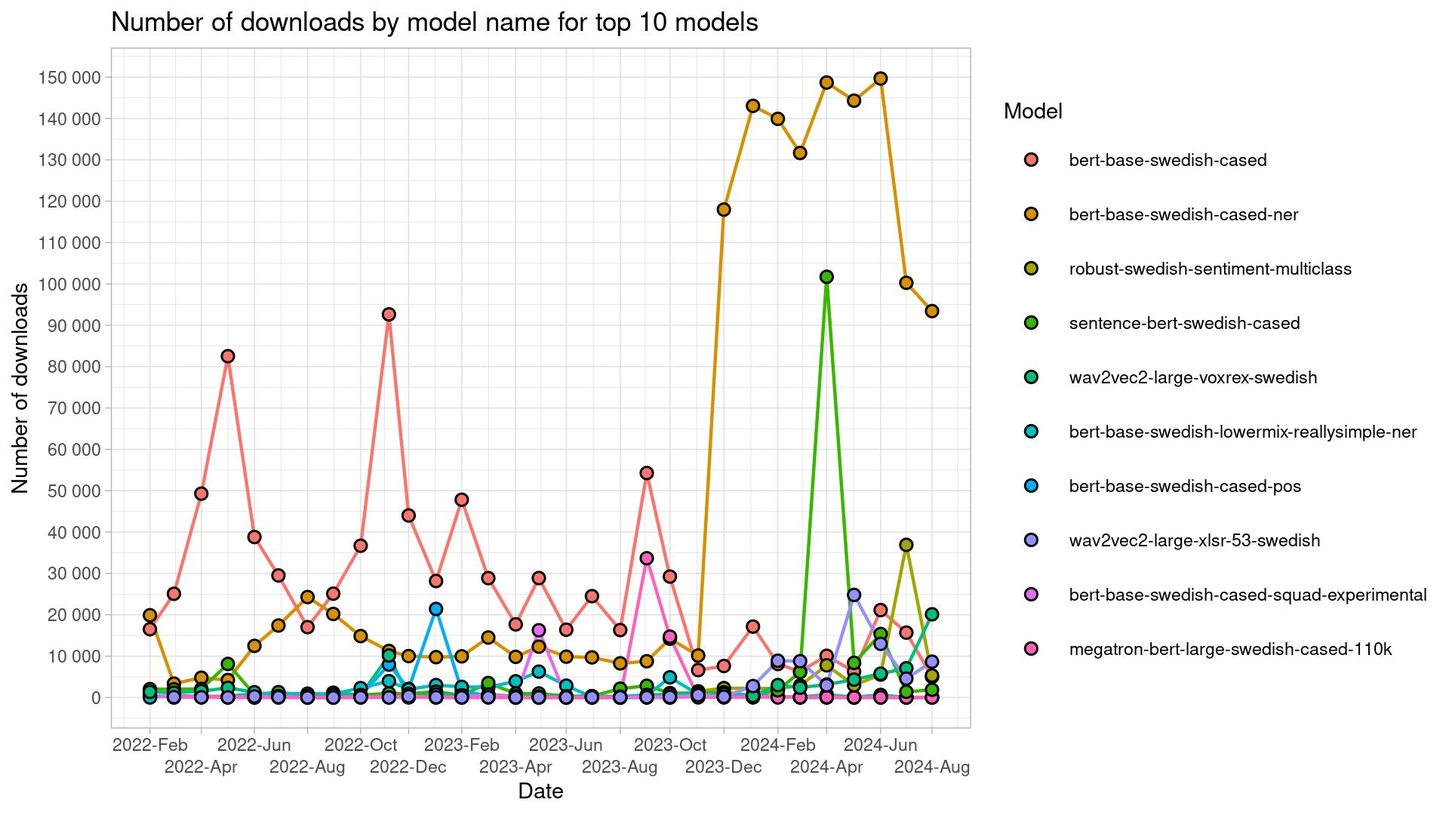
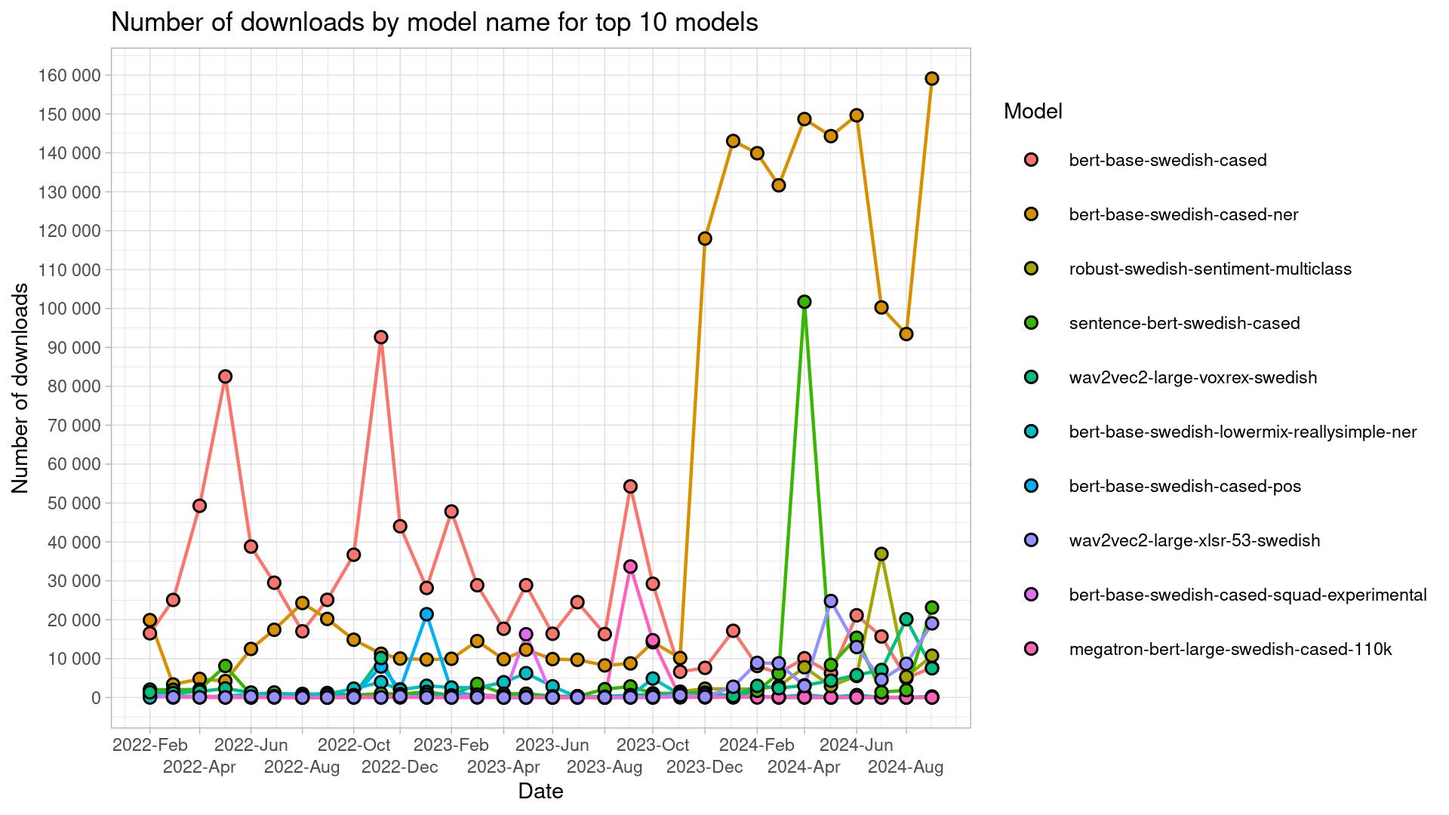
September 2024 update

diff --git a/README.md b/README.md
@@ -12,61 +12,61 @@ Script is run monthly, and a monthly `csv`-file outputted to `/data` folder.
 
 ## Table of downloads
 
-|model_name                                           | 2022-02| 2022-03| 2022-04| 2022-05| 2022-06| 2022-07| 2022-08| 2022-09| 2022-10| 2022-11| 2022-12| 2023-01| 2023-02| 2023-03| 2023-04| 2023-05| 2023-06| 2023-07| 2023-08| 2023-09| 2023-10| 2023-11| 2023-12| 2024-01| 2024-02| 2024-03| 2024-04| 2024-05| 2024-06| 2024-07| 2024-08|
-|:----------------------------------------------------|-------:|-------:|-------:|-------:|-------:|-------:|-------:|-------:|-------:|-------:|-------:|-------:|-------:|-------:|-------:|-------:|-------:|-------:|-------:|-------:|-------:|-------:|-------:|-------:|-------:|-------:|-------:|-------:|-------:|-------:|-------:|
-|albert-base-swedish-cased-alpha                      |     126|     252|      61|      52|      52|      28|      31|      17|      30|      64|     229|      37|      32|      75|      13|      17|      24|      39|      14|      18|       4|      71|      75|      74|      20|      27|     100|     220|      31|      19|      19|
-|asr-voxrex-bart-base                                 |      11|      10|      19|       5|       2|       1|       1|       3|       2|       3|       2|       4|       9|      15|       7|       2|       4|       7|       4|       3|       8|       2|       5|       1|       6|       8|       5|       8|       8|      50|       6|
-|bart-base-swedish-cased                              |      74|      12|     116|     126|      32|      18|      41|      56|      81|       6|       9|      18|      41|      70|     110|      60|      50|      40|      23|       9|      63|      44|      42|      11|     129|      14|     119|      14|      56|      32|     288|
-|bert-base-swedish-cased                              |   16509|   25080|   49286|   82528|   38802|   29511|   17012|   25106|   36702|   92636|   44016|   28164|   47819|   28864|   17684|   28878|   16390|   24502|   16303|   54271|   29238|    6625|    7620|   17149|    8106|    6290|   10094|    6253|   21139|   15689|    4996|
-|bert-base-swedish-cased-alpha                        |      22|      24|    1362|      34|       8|      73|       7|      14|      14|      14|      10|     160|     151|       6|       9|       5|       6|       9|       2|      12|       3|       4|       5|       3|       5|      11|      15|       2|       9|       8|       7|
-|bert-base-swedish-cased-ner                          |   19891|    3353|    4783|    4221|   12487|   17406|   24290|   20200|   14852|   11251|   10014|    9759|    9957|   14508|    9834|   12293|    9868|    9701|    8258|    8767|   14214|   10149|  117977|  143050|  139912|  131659|  148695|  144309|  149658|  100264|   93427|
-|bert-base-swedish-cased-neriob                       |       8|      87|      34|      25|       4|      44|       2|       1|      62|      10|       5|      31|       5|       8|       6|       6|       9|      18|       2|       1|       0|      19|       8|       5|       5|      11|      15|       3|      22|       7|      10|
-|bert-base-swedish-cased-new                          |      NA|       0|     377|    1069|     786|      10|     238|      69|     225|     168|     163|      46|      44|     352|     303|      33|      52|      69|      73|     211|      96|      84|      30|      34|       5|      53|      59|     279|      76|      27|       8|
-|bert-base-swedish-cased-pos                          |     428|     179|     107|     104|     168|     310|       2|       2|     467|    7959|    2083|   21410|    1713|     300|      15|      28|      58|      64|       9|      75|      28|     312|     159|     166|     239|      33|      20|      12|      80|      32|      15|
-|bert-base-swedish-cased-reallysimple-ner             |       6|      32|       9|       7|      11|      10|       3|       8|      10|      17|       4|      16|     159|     401|     211|     334|     327|     326|      74|     152|     341|     304|     274|       3|       7|      14|      14|       4|      12|       6|      11|
-|bert-base-swedish-cased-squad-experimental           |     323|     136|      45|      23|      40|     182|      25|      27|     101|      10|      22|      62|      56|     643|     130|   16262|      29|      29|       4|      16|      10|     280|      64|      34|     275|      30|      44|       4|      13|      36|      47|
-|bert-base-swedish-lowermix-reallysimple-ner          |       6|     453|     248|     312|     901|     991|     930|     871|    2274|    3958|    1963|    3010|    2567|    2485|    3919|    6258|    2875|     121|      53|     417|    4874|     769|     327|     713|      81|     111|     696|     104|     623|      31|      33|
-|electra-base-swedish-cased-discriminator             |     317|     143|     149|    1404|       2|       3|       3|       3|       2|       5|       0|       7|       2|       0|       6|       7|       4|       8|       0|       1|       0|       4|       0|       1|       4|       5|      15|       2|       5|       4|       4|
-|electra-base-swedish-cased-generator                 |       9|      15|      26|      31|       2|      19|       1|      18|       1|       9|       4|      10|       4|      14|      88|      78|     107|      72|       3|      15|      39|      12|       7|      11|       8|      52|      53|       6|      27|       2|       5|
-|electra-small-swedish-cased-discriminator            |      12|       5|    1467|    3804|      10|       5|       2|       2|       2|      10|       8|      12|     153|       1|       9|       2|       6|       4|      18|       6|       0|       3|       0|       7|      11|      13|       9|       4|       9|       7|      14|
-|electra-small-swedish-cased-generator                |      NA|       3|     138|      14|       4|      19|       2|       3|       4|       8|       6|      11|       4|       3|       6|      14|       4|       9|       0|       1|       0|     131|       5|       3|       5|       9|      13|       2|      10|       4|       9|
-|emotional-classification                             |      NA|      NA|      NA|      NA|      NA|      NA|      NA|      NA|      NA|      NA|      NA|      NA|      NA|      NA|      NA|      NA|      NA|     155|       3|       1|       2|      27|       9|       0|       0|      13|      63|       1|       8|       2|       8|
-|megatron-bert-base-swedish-cased-125k                |      NA|       0|     353|       0|       2|       8|       1|       3|     131|      55|     158|      27|      21|      19|       7|       6|      10|      10|       4|       2|       0|       4|      29|      22|       5|       3|       4|      67|       8|       2|       6|
-|megatron-bert-base-swedish-cased-600k                |      NA|      10|     288|      87|      30|      16|      16|      17|     111|      12|      20|     194|      27|      49|      13|      15|     100|      22|       2|       2|      15|      12|      41|      21|       5|      67|       6|      71|      30|       6|      13|
-|megatron-bert-large-swedish-cased-110k               |      NA|       0|     346|      77|       4|       4|       0|       1|       1|     171|     160|      15|       8|      23|       4|       2|       4|       3|       0|   33671|   14716|      38|      63|     106|      29|      70|      79|      43|      31|      24|      23|
-|megatron-bert-large-swedish-cased-165-zero-shot      |      NA|      NA|      NA|      NA|      NA|      NA|      NA|      NA|      NA|      NA|       5|      55|      26|      63|      20|     621|      69|     135|      58|     170|      48|     243|     123|      40|     127|     147|      56|     123|     119|       7|      27|
-|megatron-bert-large-swedish-cased-165k               |      NA|      NA|       9|      13|      40|      19|      53|       2|      18|     336|     327|      21|      34|      67|      43|      56|      36|      52|      13|      86|      37|      12|     343|     153|      24|      18|      24|      15|      15|       3|       5|
-|megatron.bert-base.bpe-32k-no_pretok.25k-steps       |      NA|      NA|      NA|      NA|      NA|      NA|      NA|      NA|      NA|      NA|      NA|      NA|      NA|      NA|      NA|      NA|      NA|      NA|      NA|      NA|      NA|      NA|      NA|      NA|      NA|      NA|      NA|       3|       2|       4|       4|
-|megatron.bert-base.bpe-64k-no_pretok.25k-steps       |      NA|      NA|      NA|      NA|      NA|      NA|      NA|      NA|      NA|      NA|      NA|      NA|      NA|      NA|      NA|      NA|      NA|      NA|      NA|      NA|      NA|      NA|      NA|      NA|      NA|      NA|      NA|       3|       3|       3|       5|
-|megatron.bert-base.spe-bpe-32k-no_pretok.25k-steps   |      NA|      NA|      NA|      NA|      NA|      NA|      NA|      NA|      NA|      NA|      NA|      NA|      NA|      NA|      NA|      NA|      NA|      NA|      NA|      NA|      NA|      NA|      NA|      NA|      NA|      NA|      NA|       3|       3|       3|       4|
-|megatron.bert-base.spe-bpe-32k-pretok.25k-steps      |      NA|      NA|      NA|      NA|      NA|      NA|      NA|      NA|      NA|      NA|      NA|      NA|      NA|      NA|      NA|      NA|      NA|      NA|      NA|      NA|      NA|      NA|      NA|      NA|      NA|      NA|      NA|       3|       3|       3|       4|
-|megatron.bert-base.spe-bpe-64k-no_pretok.25k-steps   |      NA|      NA|      NA|      NA|      NA|      NA|      NA|      NA|      NA|      NA|      NA|      NA|      NA|      NA|      NA|      NA|      NA|      NA|      NA|      NA|      NA|      NA|      NA|      NA|      NA|      NA|      NA|       3|       3|       4|       4|
-|megatron.bert-base.spe-bpe-64k-pretok.25k-steps      |      NA|      NA|      NA|      NA|      NA|      NA|      NA|      NA|      NA|      NA|      NA|      NA|      NA|      NA|      NA|      NA|      NA|      NA|      NA|      NA|      NA|      NA|      NA|      NA|      NA|      NA|      NA|       3|       3|       2|       4|
-|megatron.bert-base.unigram-32k-no_pretok.25k-steps   |      NA|      NA|      NA|      NA|      NA|      NA|      NA|      NA|      NA|      NA|      NA|      NA|      NA|      NA|      NA|      NA|      NA|      NA|      NA|      NA|      NA|      NA|      NA|      NA|      NA|      NA|      NA|       3|       3|       3|       4|
-|megatron.bert-base.unigram-32k-pretok.25k-steps      |      NA|      NA|      NA|      NA|      NA|      NA|      NA|      NA|      NA|      NA|      NA|      NA|      NA|      NA|      NA|      NA|      NA|      NA|      NA|      NA|      NA|      NA|      NA|      NA|      NA|      NA|      NA|       3|       3|       3|       4|
-|megatron.bert-base.unigram-64k-no_pretok.25k-steps   |      NA|      NA|      NA|      NA|      NA|      NA|      NA|      NA|      NA|      NA|      NA|      NA|      NA|      NA|      NA|      NA|      NA|      NA|      NA|      NA|      NA|      NA|      NA|      NA|      NA|      NA|      NA|       3|       3|       3|       5|
-|megatron.bert-base.unigram-64k-pretok.25k-steps      |      NA|      NA|      NA|      NA|      NA|      NA|      NA|      NA|      NA|      NA|      NA|      NA|      NA|      NA|      NA|      NA|      NA|      NA|      NA|      NA|      NA|      NA|      NA|      NA|      NA|      NA|      NA|       3|       4|       3|       4|
-|megatron.bert-base.wordpiece-32k-no_pretok.25k-steps |      NA|      NA|      NA|      NA|      NA|      NA|      NA|      NA|      NA|      NA|      NA|      NA|      NA|      NA|      NA|      NA|      NA|      NA|      NA|      NA|      NA|      NA|      NA|      NA|      NA|      NA|      NA|       3|       3|       3|       4|
-|megatron.bert-base.wordpiece-32k-pretok.25k-steps    |      NA|      NA|      NA|      NA|      NA|      NA|      NA|      NA|      NA|      NA|      NA|      NA|      NA|      NA|      NA|      NA|      NA|      NA|      NA|      NA|      NA|      NA|      NA|      NA|      NA|      NA|      NA|       9|       3|       3|       5|
-|megatron.bert-base.wordpiece-64k-no_pretok.25k-steps |      NA|      NA|      NA|      NA|      NA|      NA|      NA|      NA|      NA|      NA|      NA|      NA|      NA|      NA|      NA|      NA|      NA|      NA|      NA|      NA|      NA|      NA|      NA|      NA|      NA|      NA|      NA|       3|       3|       3|       5|
-|megatron.bert-base.wordpiece-64k-pretok.25k-steps    |      NA|      NA|      NA|      NA|      NA|      NA|      NA|      NA|      NA|      NA|      NA|      NA|      NA|      NA|      NA|      NA|      NA|      NA|      NA|      NA|      NA|      NA|      NA|      NA|      NA|      NA|      NA|       3|       3|       2|       4|
-|megatron.bert-large.bpe-64k-no_pretok.25k-steps      |      NA|      NA|      NA|      NA|      NA|      NA|      NA|      NA|      NA|      NA|      NA|      NA|      NA|      NA|      NA|      NA|      NA|      NA|      NA|      NA|      NA|      NA|      NA|      NA|      NA|      NA|      NA|       3|       3|       3|       4|
-|megatron.bert-large.spe-bpe-32k-pretok.25k-steps     |      NA|      NA|      NA|      NA|      NA|      NA|      NA|      NA|      NA|      NA|      NA|      NA|      NA|      NA|      NA|      NA|      NA|      NA|      NA|      NA|      NA|      NA|      NA|      NA|      NA|      NA|      NA|       3|       3|       3|       4|
-|megatron.bert-large.unigram-32k-pretok.25k-steps     |      NA|      NA|      NA|      NA|      NA|      NA|      NA|      NA|      NA|      NA|      NA|      NA|      NA|      NA|      NA|      NA|      NA|      NA|      NA|      NA|      NA|      NA|      NA|      NA|      NA|      NA|      NA|       3|       3|       2|       4|
-|megatron.bert-large.unigram-64k-pretok.25k-steps     |      NA|      NA|      NA|      NA|      NA|      NA|      NA|      NA|      NA|      NA|      NA|      NA|      NA|      NA|      NA|      NA|      NA|      NA|      NA|      NA|      NA|      NA|      NA|      NA|      NA|      NA|      NA|       3|       3|       3|       5|
-|megatron.bert-large.unigram-64k-pretok.500k-steps    |      NA|      NA|      NA|      NA|      NA|      NA|      NA|      NA|      NA|      NA|      NA|      NA|      NA|      NA|      NA|      NA|      NA|      NA|      NA|      NA|      NA|      NA|      NA|      NA|      NA|     310|      11|       1|       1|       2|       4|
-|megatron.bert-large.wordpiece-32k-pretok.25k-steps   |      NA|      NA|      NA|      NA|      NA|      NA|      NA|      NA|      NA|      NA|      NA|      NA|      NA|      NA|      NA|      NA|      NA|      NA|      NA|      NA|      NA|      NA|      NA|      NA|      NA|      NA|      NA|       3|       3|       3|       5|
-|megatron.bert-large.wordpiece-64k-pretok.25k-steps   |      NA|      NA|      NA|      NA|      NA|      NA|      NA|      NA|      NA|      NA|      NA|      NA|      NA|      NA|      NA|      NA|      NA|      NA|      NA|      NA|      NA|      NA|      NA|      NA|      NA|      NA|      NA|       9|       4|       3|       5|
-|piper-tts-nst-swedish                                |      NA|      NA|      NA|      NA|      NA|      NA|      NA|      NA|      NA|      NA|      NA|      NA|      NA|      NA|      NA|       1|       8|       3|       0|       0|       0|       1|       0|       0|       0|       3|       7|      11|       3|       1|       6|
-|roberta-base-swedish-cased                           |       7|       7|     471|       8|      78|       5|      67|       2|       0|       5|       5|      37|     150|       3|       6|     204|      10|       9|       1|       2|       2|       2|       3|       3|      30|      15|       9|       3|      10|       3|       8|
-|robust-swedish-sentiment-multiclass                  |      NA|      NA|      NA|      NA|      NA|      NA|      NA|      NA|      NA|      NA|      NA|      NA|      NA|      NA|      NA|      NA|      12|     296|       8|      58|     119|    1505|    2263|    2206|    2178|    2895|    7783|    2968|    5544|   36910|    5320|
-|sentence-bert-swedish-cased                          |    2033|    1988|    2079|    8110|     721|    1299|     304|    1157|     597|    1008|     887|    1441|     546|    3499|     955|     970|     327|     328|    2135|    2841|    1071|    1067|    1258|     383|    1733|    6143|  101722|    8376|   15360|    1376|    1874|
-|swedish-spacy-pipeline                               |      65|      22|       5|       2|       5|       9|       1|       2|       0|       1|       3|       4|       6|      90|       3|       1|       0|       1|       3|       9|       5|       5|       5|       3|      56|       5|       4|       2|       2|       8|       9|
-|wav2vec2-base-voxpopuli-sv-swedish                   |      NA|      21|      19|       7|       1|      NA|       1|       5|      99|       6|       2|      13|      57|      12|      56|       4|      26|       9|       0|       1|       7|       4|       2|     113|       5|       6|      12|       4|       9|       6|      14|
-|wav2vec2-large-voxpopuli-sv-swedish                  |      58|      32|      73|      57|      24|       5|       5|      11|      59|      15|       7|      23|       9|      10|      13|      10|       7|      14|       4|       1|       5|      26|       2|       3|      12|     117|      14|      13|       2|      19|      12|
-|wav2vec2-large-voxrex                                |     780|     609|     996|      57|     102|      55|      13|      34|      74|       4|       0|      56|      17|      11|       8|      17|       4|      15|       2|       1|      13|       6|       3|       1|      12|      10|      10|      20|      18|       8|      13|
-|wav2vec2-large-voxrex-swedish                        |    1356|    1151|    1534|    2331|    1277|     334|     361|     611|     531|   10157|     146|     770|     411|     732|     290|     225|      65|     330|     217|     624|     752|     769|     829|     392|    3000|    2389|    3129|    4330|    5762|    7066|   20122|
-|wav2vec2-large-xlsr-53-swedish                       |      NA|     112|      55|      32|     259|      91|      19|       9|      61|      26|     307|      71|      32|      76|      26|      31|      45|      65|      50|      77|     126|     586|     188|    2766|    8897|    8785|    2962|   24811|   12976|    4572|    8654|
-|whisper-large-rixvox                                 |      NA|      NA|      NA|      NA|      NA|      NA|      NA|      NA|      NA|      NA|      NA|      NA|      NA|     113|      56|       8|       9|      12|       9|       6|       0|      16|       0|       2|      19|      38|      18|      12|      11|      31|       8|
-|whisper-small-rixvox                                 |      NA|      NA|      NA|      NA|      NA|      NA|      NA|      NA|      NA|      NA|      NA|      NA|      NA|       3|       1|       6|       2|       7|       0|       0|       0|       1|       0|       0|       0|      13|       2|       1|       7|       1|       6|
-|whisper-tiny-rixvox                                  |      NA|      NA|      NA|      NA|      NA|      NA|      NA|      NA|      NA|      NA|      NA|      NA|      NA|       9|       1|       5|       4|       7|       3|       0|       0|       1|       0|       0|       2|      12|       6|       1|       7|       1|       5|
+|model_name                                           | 2022-02| 2022-03| 2022-04| 2022-05| 2022-06| 2022-07| 2022-08| 2022-09| 2022-10| 2022-11| 2022-12| 2023-01| 2023-02| 2023-03| 2023-04| 2023-05| 2023-06| 2023-07| 2023-08| 2023-09| 2023-10| 2023-11| 2023-12| 2024-01| 2024-02| 2024-03| 2024-04| 2024-05| 2024-06| 2024-07| 2024-08| 2024-09|
+|:----------------------------------------------------|-------:|-------:|-------:|-------:|-------:|-------:|-------:|-------:|-------:|-------:|-------:|-------:|-------:|-------:|-------:|-------:|-------:|-------:|-------:|-------:|-------:|-------:|-------:|-------:|-------:|-------:|-------:|-------:|-------:|-------:|-------:|-------:|
+|albert-base-swedish-cased-alpha                      |     126|     252|      61|      52|      52|      28|      31|      17|      30|      64|     229|      37|      32|      75|      13|      17|      24|      39|      14|      18|       4|      71|      75|      74|      20|      27|     100|     220|      31|      19|      19|     116|
+|asr-voxrex-bart-base                                 |      11|      10|      19|       5|       2|       1|       1|       3|       2|       3|       2|       4|       9|      15|       7|       2|       4|       7|       4|       3|       8|       2|       5|       1|       6|       8|       5|       8|       8|      50|       6|      20|
+|bart-base-swedish-cased                              |      74|      12|     116|     126|      32|      18|      41|      56|      81|       6|       9|      18|      41|      70|     110|      60|      50|      40|      23|       9|      63|      44|      42|      11|     129|      14|     119|      14|      56|      32|     288|      19|
+|bert-base-swedish-cased                              |   16509|   25080|   49286|   82528|   38802|   29511|   17012|   25106|   36702|   92636|   44016|   28164|   47819|   28864|   17684|   28878|   16390|   24502|   16303|   54271|   29238|    6625|    7620|   17149|    8106|    6290|   10094|    6253|   21139|   15689|    4996|    7660|
+|bert-base-swedish-cased-alpha                        |      22|      24|    1362|      34|       8|      73|       7|      14|      14|      14|      10|     160|     151|       6|       9|       5|       6|       9|       2|      12|       3|       4|       5|       3|       5|      11|      15|       2|       9|       8|       7|      14|
+|bert-base-swedish-cased-ner                          |   19891|    3353|    4783|    4221|   12487|   17406|   24290|   20200|   14852|   11251|   10014|    9759|    9957|   14508|    9834|   12293|    9868|    9701|    8258|    8767|   14214|   10149|  117977|  143050|  139912|  131659|  148695|  144309|  149658|  100264|   93427|  159109|
+|bert-base-swedish-cased-neriob                       |       8|      87|      34|      25|       4|      44|       2|       1|      62|      10|       5|      31|       5|       8|       6|       6|       9|      18|       2|       1|       0|      19|       8|       5|       5|      11|      15|       3|      22|       7|      10|      26|
+|bert-base-swedish-cased-new                          |      NA|       0|     377|    1069|     786|      10|     238|      69|     225|     168|     163|      46|      44|     352|     303|      33|      52|      69|      73|     211|      96|      84|      30|      34|       5|      53|      59|     279|      76|      27|       8|     750|
+|bert-base-swedish-cased-pos                          |     428|     179|     107|     104|     168|     310|       2|       2|     467|    7959|    2083|   21410|    1713|     300|      15|      28|      58|      64|       9|      75|      28|     312|     159|     166|     239|      33|      20|      12|      80|      32|      15|      47|
+|bert-base-swedish-cased-reallysimple-ner             |       6|      32|       9|       7|      11|      10|       3|       8|      10|      17|       4|      16|     159|     401|     211|     334|     327|     326|      74|     152|     341|     304|     274|       3|       7|      14|      14|       4|      12|       6|      11|      35|
+|bert-base-swedish-cased-squad-experimental           |     323|     136|      45|      23|      40|     182|      25|      27|     101|      10|      22|      62|      56|     643|     130|   16262|      29|      29|       4|      16|      10|     280|      64|      34|     275|      30|      44|       4|      13|      36|      47|      46|
+|bert-base-swedish-lowermix-reallysimple-ner          |       6|     453|     248|     312|     901|     991|     930|     871|    2274|    3958|    1963|    3010|    2567|    2485|    3919|    6258|    2875|     121|      53|     417|    4874|     769|     327|     713|      81|     111|     696|     104|     623|      31|      33|     261|
+|electra-base-swedish-cased-discriminator             |     317|     143|     149|    1404|       2|       3|       3|       3|       2|       5|       0|       7|       2|       0|       6|       7|       4|       8|       0|       1|       0|       4|       0|       1|       4|       5|      15|       2|       5|       4|       4|       4|
+|electra-base-swedish-cased-generator                 |       9|      15|      26|      31|       2|      19|       1|      18|       1|       9|       4|      10|       4|      14|      88|      78|     107|      72|       3|      15|      39|      12|       7|      11|       8|      52|      53|       6|      27|       2|       5|       5|
+|electra-small-swedish-cased-discriminator            |      12|       5|    1467|    3804|      10|       5|       2|       2|       2|      10|       8|      12|     153|       1|       9|       2|       6|       4|      18|       6|       0|       3|       0|       7|      11|      13|       9|       4|       9|       7|      14|       8|
+|electra-small-swedish-cased-generator                |      NA|       3|     138|      14|       4|      19|       2|       3|       4|       8|       6|      11|       4|       3|       6|      14|       4|       9|       0|       1|       0|     131|       5|       3|       5|       9|      13|       2|      10|       4|       9|       8|
+|emotional-classification                             |      NA|      NA|      NA|      NA|      NA|      NA|      NA|      NA|      NA|      NA|      NA|      NA|      NA|      NA|      NA|      NA|      NA|     155|       3|       1|       2|      27|       9|       0|       0|      13|      63|       1|       8|       2|       8|     597|
+|megatron-bert-base-swedish-cased-125k                |      NA|       0|     353|       0|       2|       8|       1|       3|     131|      55|     158|      27|      21|      19|       7|       6|      10|      10|       4|       2|       0|       4|      29|      22|       5|       3|       4|      67|       8|       2|       6|      32|
+|megatron-bert-base-swedish-cased-600k                |      NA|      10|     288|      87|      30|      16|      16|      17|     111|      12|      20|     194|      27|      49|      13|      15|     100|      22|       2|       2|      15|      12|      41|      21|       5|      67|       6|      71|      30|       6|      13|      19|
+|megatron-bert-large-swedish-cased-110k               |      NA|       0|     346|      77|       4|       4|       0|       1|       1|     171|     160|      15|       8|      23|       4|       2|       4|       3|       0|   33671|   14716|      38|      63|     106|      29|      70|      79|      43|      31|      24|      23|       8|
+|megatron-bert-large-swedish-cased-165-zero-shot      |      NA|      NA|      NA|      NA|      NA|      NA|      NA|      NA|      NA|      NA|       5|      55|      26|      63|      20|     621|      69|     135|      58|     170|      48|     243|     123|      40|     127|     147|      56|     123|     119|       7|      27|      40|
+|megatron-bert-large-swedish-cased-165k               |      NA|      NA|       9|      13|      40|      19|      53|       2|      18|     336|     327|      21|      34|      67|      43|      56|      36|      52|      13|      86|      37|      12|     343|     153|      24|      18|      24|      15|      15|       3|       5|       9|
+|megatron.bert-base.bpe-32k-no_pretok.25k-steps       |      NA|      NA|      NA|      NA|      NA|      NA|      NA|      NA|      NA|      NA|      NA|      NA|      NA|      NA|      NA|      NA|      NA|      NA|      NA|      NA|      NA|      NA|      NA|      NA|      NA|      NA|      NA|       3|       2|       4|       4|       5|
+|megatron.bert-base.bpe-64k-no_pretok.25k-steps       |      NA|      NA|      NA|      NA|      NA|      NA|      NA|      NA|      NA|      NA|      NA|      NA|      NA|      NA|      NA|      NA|      NA|      NA|      NA|      NA|      NA|      NA|      NA|      NA|      NA|      NA|      NA|       3|       3|       3|       5|       4|
+|megatron.bert-base.spe-bpe-32k-no_pretok.25k-steps   |      NA|      NA|      NA|      NA|      NA|      NA|      NA|      NA|      NA|      NA|      NA|      NA|      NA|      NA|      NA|      NA|      NA|      NA|      NA|      NA|      NA|      NA|      NA|      NA|      NA|      NA|      NA|       3|       3|       3|       4|       4|
+|megatron.bert-base.spe-bpe-32k-pretok.25k-steps      |      NA|      NA|      NA|      NA|      NA|      NA|      NA|      NA|      NA|      NA|      NA|      NA|      NA|      NA|      NA|      NA|      NA|      NA|      NA|      NA|      NA|      NA|      NA|      NA|      NA|      NA|      NA|       3|       3|       3|       4|       4|
+|megatron.bert-base.spe-bpe-64k-no_pretok.25k-steps   |      NA|      NA|      NA|      NA|      NA|      NA|      NA|      NA|      NA|      NA|      NA|      NA|      NA|      NA|      NA|      NA|      NA|      NA|      NA|      NA|      NA|      NA|      NA|      NA|      NA|      NA|      NA|       3|       3|       4|       4|       4|
+|megatron.bert-base.spe-bpe-64k-pretok.25k-steps      |      NA|      NA|      NA|      NA|      NA|      NA|      NA|      NA|      NA|      NA|      NA|      NA|      NA|      NA|      NA|      NA|      NA|      NA|      NA|      NA|      NA|      NA|      NA|      NA|      NA|      NA|      NA|       3|       3|       2|       4|       5|
+|megatron.bert-base.unigram-32k-no_pretok.25k-steps   |      NA|      NA|      NA|      NA|      NA|      NA|      NA|      NA|      NA|      NA|      NA|      NA|      NA|      NA|      NA|      NA|      NA|      NA|      NA|      NA|      NA|      NA|      NA|      NA|      NA|      NA|      NA|       3|       3|       3|       4|       4|
+|megatron.bert-base.unigram-32k-pretok.25k-steps      |      NA|      NA|      NA|      NA|      NA|      NA|      NA|      NA|      NA|      NA|      NA|      NA|      NA|      NA|      NA|      NA|      NA|      NA|      NA|      NA|      NA|      NA|      NA|      NA|      NA|      NA|      NA|       3|       3|       3|       4|       3|
+|megatron.bert-base.unigram-64k-no_pretok.25k-steps   |      NA|      NA|      NA|      NA|      NA|      NA|      NA|      NA|      NA|      NA|      NA|      NA|      NA|      NA|      NA|      NA|      NA|      NA|      NA|      NA|      NA|      NA|      NA|      NA|      NA|      NA|      NA|       3|       3|       3|       5|       4|
+|megatron.bert-base.unigram-64k-pretok.25k-steps      |      NA|      NA|      NA|      NA|      NA|      NA|      NA|      NA|      NA|      NA|      NA|      NA|      NA|      NA|      NA|      NA|      NA|      NA|      NA|      NA|      NA|      NA|      NA|      NA|      NA|      NA|      NA|       3|       4|       3|       4|       4|
+|megatron.bert-base.wordpiece-32k-no_pretok.25k-steps |      NA|      NA|      NA|      NA|      NA|      NA|      NA|      NA|      NA|      NA|      NA|      NA|      NA|      NA|      NA|      NA|      NA|      NA|      NA|      NA|      NA|      NA|      NA|      NA|      NA|      NA|      NA|       3|       3|       3|       4|       4|
+|megatron.bert-base.wordpiece-32k-pretok.25k-steps    |      NA|      NA|      NA|      NA|      NA|      NA|      NA|      NA|      NA|      NA|      NA|      NA|      NA|      NA|      NA|      NA|      NA|      NA|      NA|      NA|      NA|      NA|      NA|      NA|      NA|      NA|      NA|       9|       3|       3|       5|       5|
+|megatron.bert-base.wordpiece-64k-no_pretok.25k-steps |      NA|      NA|      NA|      NA|      NA|      NA|      NA|      NA|      NA|      NA|      NA|      NA|      NA|      NA|      NA|      NA|      NA|      NA|      NA|      NA|      NA|      NA|      NA|      NA|      NA|      NA|      NA|       3|       3|       3|       5|       6|
+|megatron.bert-base.wordpiece-64k-pretok.25k-steps    |      NA|      NA|      NA|      NA|      NA|      NA|      NA|      NA|      NA|      NA|      NA|      NA|      NA|      NA|      NA|      NA|      NA|      NA|      NA|      NA|      NA|      NA|      NA|      NA|      NA|      NA|      NA|       3|       3|       2|       4|      13|
+|megatron.bert-large.bpe-64k-no_pretok.25k-steps      |      NA|      NA|      NA|      NA|      NA|      NA|      NA|      NA|      NA|      NA|      NA|      NA|      NA|      NA|      NA|      NA|      NA|      NA|      NA|      NA|      NA|      NA|      NA|      NA|      NA|      NA|      NA|       3|       3|       3|       4|       6|
+|megatron.bert-large.spe-bpe-32k-pretok.25k-steps     |      NA|      NA|      NA|      NA|      NA|      NA|      NA|      NA|      NA|      NA|      NA|      NA|      NA|      NA|      NA|      NA|      NA|      NA|      NA|      NA|      NA|      NA|      NA|      NA|      NA|      NA|      NA|       3|       3|       3|       4|       7|
+|megatron.bert-large.unigram-32k-pretok.25k-steps     |      NA|      NA|      NA|      NA|      NA|      NA|      NA|      NA|      NA|      NA|      NA|      NA|      NA|      NA|      NA|      NA|      NA|      NA|      NA|      NA|      NA|      NA|      NA|      NA|      NA|      NA|      NA|       3|       3|       2|       4|       5|
+|megatron.bert-large.unigram-64k-pretok.25k-steps     |      NA|      NA|      NA|      NA|      NA|      NA|      NA|      NA|      NA|      NA|      NA|      NA|      NA|      NA|      NA|      NA|      NA|      NA|      NA|      NA|      NA|      NA|      NA|      NA|      NA|      NA|      NA|       3|       3|       3|       5|       7|
+|megatron.bert-large.unigram-64k-pretok.500k-steps    |      NA|      NA|      NA|      NA|      NA|      NA|      NA|      NA|      NA|      NA|      NA|      NA|      NA|      NA|      NA|      NA|      NA|      NA|      NA|      NA|      NA|      NA|      NA|      NA|      NA|     310|      11|       1|       1|       2|       4|       5|
+|megatron.bert-large.wordpiece-32k-pretok.25k-steps   |      NA|      NA|      NA|      NA|      NA|      NA|      NA|      NA|      NA|      NA|      NA|      NA|      NA|      NA|      NA|      NA|      NA|      NA|      NA|      NA|      NA|      NA|      NA|      NA|      NA|      NA|      NA|       3|       3|       3|       5|       6|
+|megatron.bert-large.wordpiece-64k-pretok.25k-steps   |      NA|      NA|      NA|      NA|      NA|      NA|      NA|      NA|      NA|      NA|      NA|      NA|      NA|      NA|      NA|      NA|      NA|      NA|      NA|      NA|      NA|      NA|      NA|      NA|      NA|      NA|      NA|       9|       4|       3|       5|       5|
+|piper-tts-nst-swedish                                |      NA|      NA|      NA|      NA|      NA|      NA|      NA|      NA|      NA|      NA|      NA|      NA|      NA|      NA|      NA|       1|       8|       3|       0|       0|       0|       1|       0|       0|       0|       3|       7|      11|       3|       1|       6|       1|
+|roberta-base-swedish-cased                           |       7|       7|     471|       8|      78|       5|      67|       2|       0|       5|       5|      37|     150|       3|       6|     204|      10|       9|       1|       2|       2|       2|       3|       3|      30|      15|       9|       3|      10|       3|       8|       7|
+|robust-swedish-sentiment-multiclass                  |      NA|      NA|      NA|      NA|      NA|      NA|      NA|      NA|      NA|      NA|      NA|      NA|      NA|      NA|      NA|      NA|      12|     296|       8|      58|     119|    1505|    2263|    2206|    2178|    2895|    7783|    2968|    5544|   36910|    5320|   10749|
+|sentence-bert-swedish-cased                          |    2033|    1988|    2079|    8110|     721|    1299|     304|    1157|     597|    1008|     887|    1441|     546|    3499|     955|     970|     327|     328|    2135|    2841|    1071|    1067|    1258|     383|    1733|    6143|  101722|    8376|   15360|    1376|    1874|   23133|
+|swedish-spacy-pipeline                               |      65|      22|       5|       2|       5|       9|       1|       2|       0|       1|       3|       4|       6|      90|       3|       1|       0|       1|       3|       9|       5|       5|       5|       3|      56|       5|       4|       2|       2|       8|       9|       5|
+|wav2vec2-base-voxpopuli-sv-swedish                   |      NA|      21|      19|       7|       1|      NA|       1|       5|      99|       6|       2|      13|      57|      12|      56|       4|      26|       9|       0|       1|       7|       4|       2|     113|       5|       6|      12|       4|       9|       6|      14|      27|
+|wav2vec2-large-voxpopuli-sv-swedish                  |      58|      32|      73|      57|      24|       5|       5|      11|      59|      15|       7|      23|       9|      10|      13|      10|       7|      14|       4|       1|       5|      26|       2|       3|      12|     117|      14|      13|       2|      19|      12|      14|
+|wav2vec2-large-voxrex                                |     780|     609|     996|      57|     102|      55|      13|      34|      74|       4|       0|      56|      17|      11|       8|      17|       4|      15|       2|       1|      13|       6|       3|       1|      12|      10|      10|      20|      18|       8|      13|      94|
+|wav2vec2-large-voxrex-swedish                        |    1356|    1151|    1534|    2331|    1277|     334|     361|     611|     531|   10157|     146|     770|     411|     732|     290|     225|      65|     330|     217|     624|     752|     769|     829|     392|    3000|    2389|    3129|    4330|    5762|    7066|   20122|    7507|
+|wav2vec2-large-xlsr-53-swedish                       |      NA|     112|      55|      32|     259|      91|      19|       9|      61|      26|     307|      71|      32|      76|      26|      31|      45|      65|      50|      77|     126|     586|     188|    2766|    8897|    8785|    2962|   24811|   12976|    4572|    8654|   19055|
+|whisper-large-rixvox                                 |      NA|      NA|      NA|      NA|      NA|      NA|      NA|      NA|      NA|      NA|      NA|      NA|      NA|     113|      56|       8|       9|      12|       9|       6|       0|      16|       0|       2|      19|      38|      18|      12|      11|      31|       8|      28|
+|whisper-small-rixvox                                 |      NA|      NA|      NA|      NA|      NA|      NA|      NA|      NA|      NA|      NA|      NA|      NA|      NA|       3|       1|       6|       2|       7|       0|       0|       0|       1|       0|       0|       0|      13|       2|       1|       7|       1|       6|       4|
+|whisper-tiny-rixvox                                  |      NA|      NA|      NA|      NA|      NA|      NA|      NA|      NA|      NA|      NA|      NA|      NA|      NA|       9|       1|       5|       4|       7|       3|       0|       0|       1|       0|       0|       2|      12|       6|       1|       7|       1|       5|       3|
